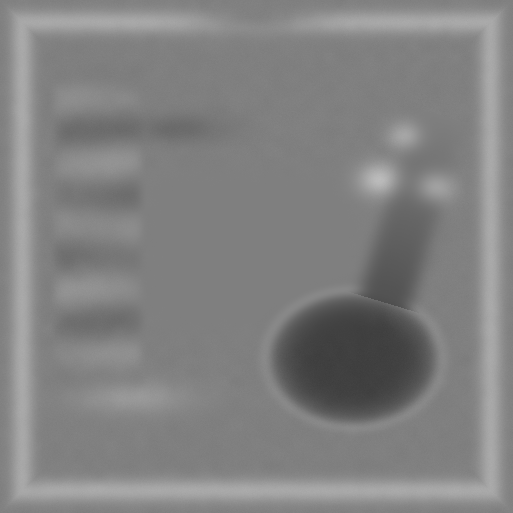
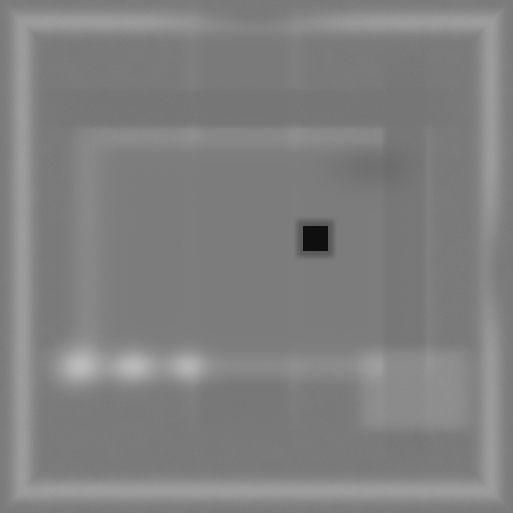
AARP terrain

diff --git a/tools/generate_aarp_goose_heightmap_v2.py b/tools/generate_aarp_goose_heightmap_v2.py
@@ -13,109 +13,310 @@ x = np.linspace(-1, 1, N)
 y = np.linspace(-1, 1, N)
 X, Y = np.meshgrid(x, y)
 
-terrain = np.full((N, N), 0.50, dtype=float)
+terrain = np.full((N, N), 0.48, dtype=float)
 
-# gentle broad variation
+# 1. BROAD VARIATION
+
 coarse = rng.normal(0, 1, (49, 49))
 coarse = (coarse - coarse.min()) / (coarse.max() - coarse.min())
 coarse_img = Image.fromarray((coarse * 255).astype(np.uint8))
 coarse_img = coarse_img.resize((N, N), Image.Resampling.BICUBIC)
-terrain += (np.asarray(coarse_img, dtype=float) / 255.0 - 0.5) * 0.018
+terrain += (np.asarray(coarse_img, dtype=float) / 255.0 - 0.5) * 0.015
 
-# 1) large flat central work pad
-pad = np.exp(-(((X + 0.03) / 0.50) ** 10 + ((Y + 0.03) / 0.36) ** 10))
-terrain = terrain * (1 - 0.96 * pad) + 0.50 * (0.96 * pad)
+# 2. MAIN FLAT TEST PAD - LARGE
 
-# 2) clear excavation pit
-pit_cx, pit_cy = 0.40, 0.40
-pit_rx, pit_ry = 0.34, 0.27
-r2 = ((X - pit_cx) / pit_rx) ** 2 + ((Y - pit_cy) / pit_ry) ** 2
-pit_core = np.exp(-(r2 / 0.72) ** 4)
-terrain -= 0.30 * pit_core
+main_pad = np.exp(
+    -(
+        ((X - 0.02) / 0.58) ** 10
+        + ((Y + 0.02) / 0.42) ** 10
+    )
+)
+terrain = terrain * (1 - 0.97 * main_pad) + 0.49 * (0.97 * main_pad)
 
-# pit bench / lip
-ring = np.exp(-((np.sqrt(r2) - 1.00) / 0.075) ** 2)
-terrain += 0.095 * ring
+# 3. SECONDARY FLAT WORK PAD
 
-# 3) wider, clearer haul ramp
-x1, y1 = 0.74, -0.62
-x2, y2 = 0.52, 0.17
-vx, vy = x2 - x1, y2 - y1
-t = ((X - x1) * vx + (Y - y1) * vy) / (vx * vx + vy * vy)
-tc = np.clip(t, 0, 1)
+secondary_pad = np.exp(
+    -(
+        ((X + 0.58) / 0.22) ** 10
+        + ((Y - 0.10) / 0.18) ** 10
+    )
+)
+terrain = terrain * (1 - 0.95 * secondary_pad) + 0.48 * (0.95 * secondary_pad)
 
-px = x1 + tc * vx
-py = y1 + tc * vy
-dist = np.sqrt((X - px) ** 2 + (Y - py) ** 2)
+# 4. HAUL ROAD
 
-ramp_mask = np.exp(-((dist / 0.145) ** 6)) * ((t >= 0) & (t <= 1))
-ramp_target = 0.50 - 0.25 * tc
-terrain = terrain * (1 - 0.98 * ramp_mask) + ramp_target * (0.98 * ramp_mask)
+road = (
+    np.exp(-((X + 0.05) / 0.18) ** 12)
+    * np.exp(-((Y + 0.15) / 0.80) ** 12)
+)
+road_target = 0.47 + 0.01 * np.sin(2 * np.pi * Y)
+terrain = terrain * (1 - 0.92 * road) + road_target * (0.92 * road)
 
-shoulders = np.exp(-(((dist - 0.17) / 0.035) ** 2)) * ((t >= 0) & (t <= 1))
-terrain += 0.035 * shoulders
+road_shoulders = (
+    np.exp(-(((np.abs(X + 0.05) - 0.20) / 0.035) ** 2))
+    * np.exp(-((Y + 0.15) / 0.80) ** 12)
+)
+terrain += 0.018 * road_shoulders
 
-# 4) perimeter bund with south opening
+# Large rectangular working pad
+aarp_pad = np.exp(
+    -(
+        ((X + 0.02) / 0.62) ** 16
+        + ((Y + 0.02) / 0.43) ** 16
+    )
+)
+
+terrain = terrain * (1 - 0.94 * aarp_pad) + 0.49 * (0.94 * aarp_pad)
+
+# Bund around the rectangular test area
+outer_rect = np.exp(
+    -(
+        ((X + 0.02) / 0.69) ** 18
+        + ((Y + 0.02) / 0.50) ** 18
+    )
+)
+
+inner_rect = np.exp(
+    -(
+        ((X + 0.02) / 0.61) ** 18
+        + ((Y + 0.02) / 0.42) ** 18
+    )
+)
+
+test_bund = np.clip(outer_rect - inner_rect, 0, 1)
+terrain += 0.075 * test_bund
+
+haul_lane = (
+    np.exp(-((X - 0.58) / 0.085) ** 10)
+    * np.exp(-((Y + 0.02) / 0.78) ** 12)
+)
+
+terrain = (
+    terrain * (1 - 0.90 * haul_lane)
+    + 0.465 * (0.90 * haul_lane)
+)
+
+access_lane = (
+    np.exp(-((Y + 0.58) / 0.075) ** 10)
+    * np.exp(-((X + 0.02) / 0.80) ** 12)
+)
+
+terrain = (
+    terrain * (1 - 0.90 * access_lane)
+    + 0.465 * (0.90 * access_lane)
+)
+
+# 5. LOW PERIMETER BERMS
+
 edge = np.minimum.reduce([X + 1, 1 - X, Y + 1, 1 - Y])
-bund = np.exp(-((edge - 0.075) / 0.038) ** 2)
-opening = np.exp(-((X / 0.25) ** 2 + ((Y + 0.96) / 0.08) ** 2))
-terrain += 0.19 * bund * (1 - 0.99 * opening)
+bund = np.exp(-((edge - 0.085) / 0.045) ** 2)
 
-# 5) three visible stockpiles
+south_opening = np.exp(-((X / 0.28) ** 2 + ((Y + 0.96) / 0.10) ** 2))
+east_opening = np.exp(-(((X - 0.96) / 0.08) ** 2 + ((Y - 0.05) / 0.22) ** 2))
+
+terrain += 0.13 * bund * (1 - 0.98 * south_opening) * (1 - 0.95 * east_opening)
+
+# 6. EARTH MOUNDS
+
 piles = [
-    (-0.50, 0.36, 0.27, 0.11, 0.09),
-    (-0.30, 0.39, 0.23, 0.105, 0.085),
-    (-0.10, 0.36, 0.20, 0.095, 0.078),
+    (-0.70, 0.43, 0.22, 0.12, 0.10),
+    (-0.48, 0.43, 0.18, 0.11, 0.09),
+    (-0.27, 0.43, 0.15, 0.10, 0.085),
 ]
+
 for cx, cy, amplitude, sx, sy in piles:
-    mound = np.exp(-((((X - cx) / sx) ** 2 + ((Y - cy) / sy) ** 2) * 1.65))
+    mound = np.exp(-((((X - cx) / sx) ** 2 + ((Y - cy) / sy) ** 2) * 1.8))
     terrain += amplitude * mound
 
-# 6) rough off-road lane
-lane = (
-    np.exp(-((X + 0.64) / 0.17) ** 12)
-    * np.exp(-((Y + 0.12) / 0.58) ** 12)
-)
-waves = (
-    0.065 * np.sin(8 * np.pi * (Y + 0.18))
-    + 0.022 * np.sin(5 * np.pi * Y + 3 * np.pi * X)
-)
-terrain += lane * waves
+# 7. LOW PLATFORM
 
-# 7) shallow trench
-trench = np.exp(-((((X + 0.25) / 0.24) ** 2 + ((Y + 0.55) / 0.075) ** 2) * 2.0))
-terrain -= 0.09 * trench
+raised_area = np.exp(
+    -(
+        ((X - 0.62) / 0.22) ** 8
+        + ((Y - 0.52) / 0.16) ** 8
+    )
+)
+terrain += 0.08 * raised_area
 
-# 8) small roughness outside work pad and ramp
+# 8. SCRAPE AREA
+
+scrape = np.exp(
+    -(
+        ((X - 0.45) / 0.20) ** 2
+        + ((Y + 0.35) / 0.11) ** 2
+    ) * 1.8
+)
+terrain -= 0.05 * scrape
+
+# 9. DIG HOLE 
+
+dig_x_min = 0.18
+dig_x_max = 0.28
+dig_y_min = -0.12
+dig_y_max = -0.02
+
+dig_zone = (
+    (X >= dig_x_min) & (X <= dig_x_max) &
+    (Y >= dig_y_min) & (Y <= dig_y_max))
+
+terrain[dig_zone] = 0.06
+
+dig_zone_soft = np.exp(
+    -(
+        ((X - 0.23) / 0.075) ** 8
+        + ((Y + 0.07) / 0.075) ** 8
+    )
+)
+terrain = np.minimum(terrain, terrain * (1 - 0.35 * dig_zone_soft) + 0.08 * (0.35 * dig_zone_soft))
+
+# 10. OUTER ROUGHNESS
+
 terrain += (
-    rng.normal(0, 0.0028, (N, N))
-    * (1 - 0.97 * pad)
-    * (1 - 0.92 * ramp_mask)
+    rng.normal(0, 0.003, (N, N))
+    * (1 - 0.95 * main_pad)
+    * (1 - 0.90 * secondary_pad)
+    * (1 - 0.85 * road)
 )
 
-terrain = np.clip(terrain, 0.10, 0.88)
+terrain = np.clip(terrain, 0.04, 0.88)
 heightmap = (terrain * 255).astype(np.uint8)
 
 Image.fromarray(heightmap, mode="L").save(
     OUTPUT_DIR / "aarp_goose_demo_heightmap_v2.png"
 )
 
-# dirt diffuse texture
+# DIFFUSE TEXTURE
+
 texture_size = 512
+
 noise = rng.normal(0, 1, (texture_size, texture_size))
 noise = (noise - noise.min()) / (noise.max() - noise.min())
+
 noise_img = Image.fromarray((noise * 255).astype(np.uint8))
-noise_img = noise_img.filter(ImageFilter.GaussianBlur(radius=1.4))
+noise_img = noise_img.filter(ImageFilter.GaussianBlur(radius=2.0))
+
 n = np.asarray(noise_img, dtype=float) / 255.0
 
-rgb = np.zeros((texture_size, texture_size, 3), dtype=np.uint8)
-rgb[..., 0] = np.clip(158 + (n - 0.5) * 36, 0, 255)
-rgb[..., 1] = np.clip(119 + (n - 0.5) * 30, 0, 255)
-rgb[..., 2] = np.clip(66 + (n - 0.5) * 24, 0, 255)
+broad_noise = rng.normal(0, 1, (32, 32))
+broad_noise = (broad_noise - broad_noise.min()) / (
+    broad_noise.max() - broad_noise.min()
+)
 
-Image.fromarray(rgb, mode="RGB").save(OUTPUT_DIR / "dirt_diffuse_v2.png")
+broad_img = Image.fromarray(
+    (broad_noise * 255).astype(np.uint8)
+)
 
-# neutral flat normal
+broad_img = broad_img.resize(
+    (texture_size, texture_size),
+    Image.Resampling.BICUBIC
+)
+
+b = np.asarray(broad_img, dtype=float) / 255.0
+
+# Texture coordinate grid
+tx = np.linspace(-1, 1, texture_size)
+ty = np.linspace(-1, 1, texture_size)
+TX, TY = np.meshgrid(tx, ty)
+
+# Rectangular haul-road loop around the main test pad
+outer_road = (
+    (np.abs(TX + 0.02) <= 0.72)
+    & (np.abs(TY + 0.02) <= 0.54)
+)
+
+inner_road = (
+    (np.abs(TX + 0.02) <= 0.58)
+    & (np.abs(TY + 0.02) <= 0.40)
+)
+
+perimeter_road = outer_road & (~inner_road)
+
+# Long haul lane on right side
+right_haul_road = (
+    (np.abs(TX - 0.58) <= 0.09)
+    & (np.abs(TY + 0.02) <= 0.78)
+)
+
+# Access road across lower part of site
+access_road = (
+    (np.abs(TY + 0.58) <= 0.08)
+    & (np.abs(TX + 0.02) <= 0.80)
+)
+
+road_mask = (
+    perimeter_road
+    | right_haul_road
+    | access_road
+).astype(float)
+
+
+
+
+
+
+
+
+# Main sandy terrain
+sand_r = np.clip(
+    166 + (n - 0.5) * 22 + (b - 0.5) * 12,
+    0, 255
+)
+
+sand_g = np.clip(
+    128 + (n - 0.5) * 18 + (b - 0.5) * 10,
+    0, 255
+)
+
+sand_b = np.clip(
+    78 + (n - 0.5) * 16 + (b - 0.5) * 8,
+    0, 255
+)
+
+# Compacted darker haul-road dirt
+road_r = np.clip(
+    118 + (n - 0.5) * 18,
+    0, 255
+)
+
+road_g = np.clip(
+    91 + (n - 0.5) * 15,
+    0, 255
+)
+
+road_b = np.clip(
+    58 + (n - 0.5) * 12,
+    0, 255
+)
+
+rgb = np.zeros(
+    (texture_size, texture_size, 3),
+    dtype=np.uint8
+)
+
+rgb[..., 0] = (
+    sand_r * (1 - road_mask)
+    + road_r * road_mask
+).astype(np.uint8)
+
+rgb[..., 1] = (
+    sand_g * (1 - road_mask)
+    + road_g * road_mask
+).astype(np.uint8)
+
+rgb[..., 2] = (
+    sand_b * (1 - road_mask)
+    + road_b * road_mask
+).astype(np.uint8)
+
+Image.fromarray(
+    rgb,
+    mode="RGB"
+).save(
+    OUTPUT_DIR / "dirt_diffuse_v2.png"
+)
+
+# NORMAL MAP
+
 normal = np.zeros((texture_size, texture_size, 3), dtype=np.uint8)
 normal[..., 0] = 128
 normal[..., 1] = 128
